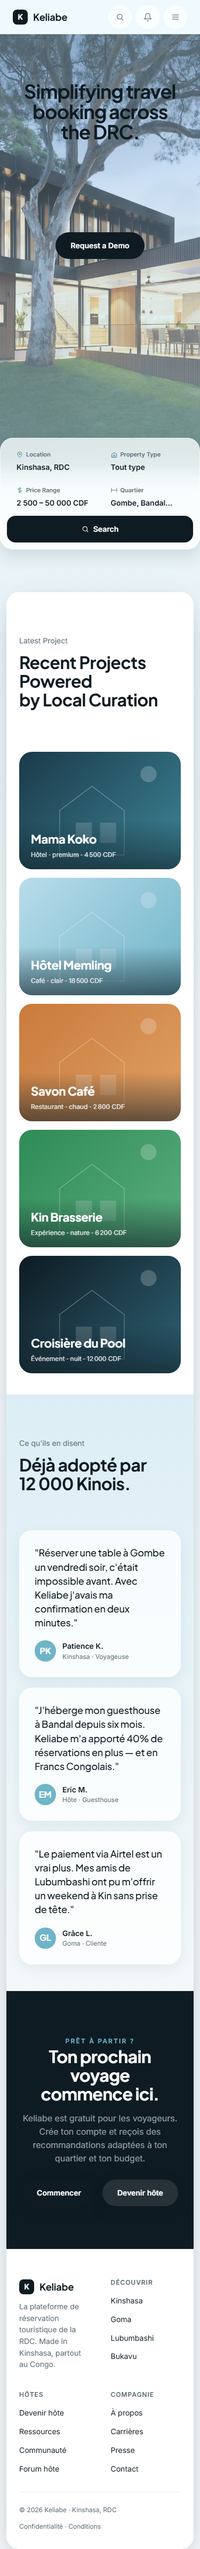
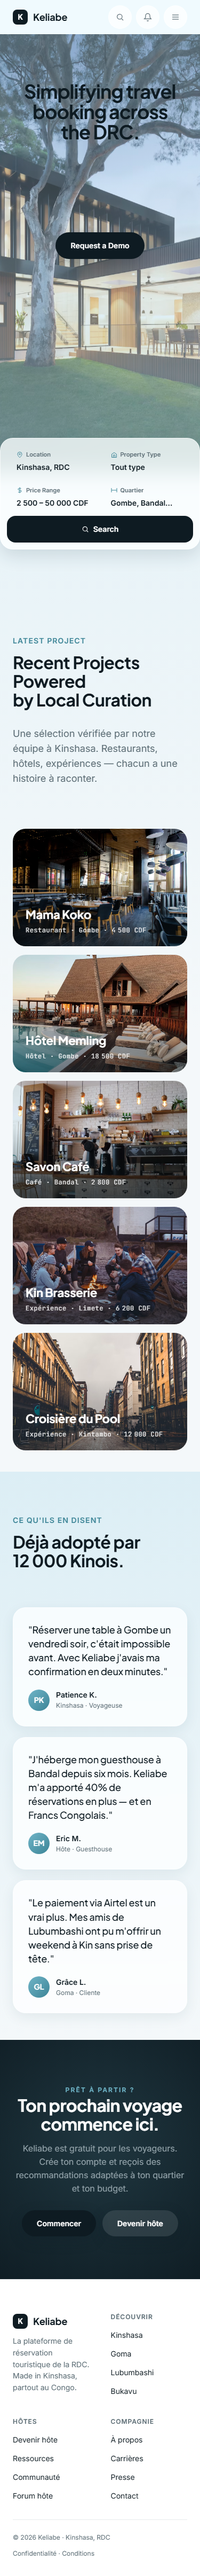
feat(landing): parties sous-hero en pleine largeur avec photos Unsplash - Suppression du frame arrondi .frame--body qui bridait le contenu - Sections .section, .testi, .cta, .footer : width 100% avec padding   horizontal, contenu interne limité à 1280px via .section__inner /   .testi__inner / .foote

diff --git a/styles/landing.css b/styles/landing.css
@@ -7,23 +7,8 @@ body {
   background: linear-gradient(180deg, var(--sky-soft) 0%, var(--paper) 40%);
 }
 
-/* ----- FRAME (uniquement pour la suite sous le hero) ----- */
-.frame--body {
-  margin: 24px auto 0;
-  max-width: 1240px;
-  border-radius: 32px;
-  background: var(--paper-elev);
-  box-shadow:
-    0 1px 0 rgba(255, 255, 255, 0.9) inset,
-    0 24px 80px -20px rgba(27, 58, 74, 0.25),
-    0 8px 24px -8px rgba(27, 58, 74, 0.15);
-  overflow: hidden;
-  position: relative;
-}
-@media (max-width: 720px) {
-  .frame--body { margin: 12px 12px 0; border-radius: 24px; }
-}
-
+/* ----- FRAME (supprimée — tout est pleine largeur maintenant) ----- */
+/* Conservée pour rétro-compat éventuelle — pas utilisée sur landing */
 /* ----- NAV (pleine largeur) ----- */
 .nav {
   position: sticky;
@@ -396,15 +381,29 @@ body {
   .search-glass__btn { grid-column: span 2; justify-content: center; margin-left: 0; }
 }
 
-/* ----- SECTION "LATEST PROJECT" ----- */
+/* ----- SECTION "LATEST PROJECT" (pleine largeur, contenu max 1280) ----- */
 .section {
   padding: 80px 24px;
-  max-width: 1200px;
+  width: 100%;
+}
+.section__inner {
+  max-width: 1280px;
   margin: 0 auto;
+}
+.section__head {
+  display: flex;
+  justify-content: space-between;
+  align-items: end;
+  gap: 32px;
+  flex-wrap: wrap;
+  margin-bottom: 40px;
 }
 .section__eyebrow {
   font-size: var(--t-sm);
-  color: var(--gris);
+  color: var(--ocean-deep);
+  font-weight: 600;
+  letter-spacing: 0.08em;
+  text-transform: uppercase;
   margin-bottom: 12px;
 }
 .section__title {
@@ -416,13 +415,19 @@ body {
   color: var(--ink);
   max-width: 22ch;
 }
+.section__intro {
+  max-width: 44ch;
+  color: var(--gris);
+  font-size: var(--t-md);
+}
 
-/* Grille Bento de cards */
+/* Grille Bento de cards (pleine largeur, gap serré) */
 .bento {
   display: grid;
   grid-template-columns: repeat(6, 1fr);
   gap: 16px;
-  margin-top: 40px;
+  max-width: 1280px;
+  margin: 0 auto;
 }
 .bento__card {
   position: relative;
@@ -439,16 +444,21 @@ body {
 .bento__card-media {
   position: absolute;
   inset: 0;
-  display: grid; place-items: center;
-  color: var(--paper-elev);
-  font-weight: 600;
+  background-size: cover;
+  background-position: center;
+}
+.bento__card-media::after {
+  content: "";
+  position: absolute;
+  inset: 0;
+  background: linear-gradient(180deg, rgba(14, 27, 34, 0) 40%, rgba(14, 27, 34, 0.55) 100%);
 }
 .bento__card-body {
   position: absolute;
   left: 0; right: 0; bottom: 0;
-  padding: 18px 22px;
+  padding: 20px 24px;
   color: var(--paper-elev);
-  background: linear-gradient(180deg, transparent 0%, rgba(14, 27, 34, 0.6) 100%);
+  z-index: 1;
 }
 .bento__card-title {
   font-family: var(--font-display);
@@ -458,8 +468,10 @@ body {
 }
 .bento__card-meta {
   font-size: var(--t-xs);
-  opacity: 0.85;
+  opacity: 0.9;
   margin-top: 4px;
+  font-family: var(--font-mono);
+  letter-spacing: 0.04em;
 }
 .bento__card:nth-child(1) { grid-column: span 4; min-height: 360px; }
 .bento__card:nth-child(2) { grid-column: span 2; }
@@ -477,20 +489,23 @@ body {
   .bento__card:nth-child(n) { grid-column: span 1; }
 }
 
-/* ----- TÉMOIGNAGES GLASS ----- */
+/* ----- TÉMOIGNAGES GLASS (pleine largeur) ----- */
 .testi {
   background: linear-gradient(180deg, var(--sky-soft) 0%, var(--paper) 100%);
   padding: 80px 24px;
+  width: 100%;
 }
 .testi__inner {
-  max-width: 1200px;
+  max-width: 1280px;
   margin: 0 auto;
+}
+.testi__head {
+  margin-bottom: 40px;
 }
 .testi__grid {
   display: grid;
   grid-template-columns: repeat(3, 1fr);
   gap: 20px;
-  margin-top: 40px;
 }
 @media (max-width: 960px) { .testi__grid { grid-template-columns: 1fr; } }
 
@@ -519,23 +534,39 @@ body {
 .glass-card__avatar {
   width: 40px; height: 40px;
   border-radius: 50%;
-  background: var(--ocean);
+  background: linear-gradient(135deg, var(--ocean), var(--ocean-deep));
   color: var(--paper-elev);
   display: grid; place-items: center;
   font-family: var(--font-display);
   font-weight: 700;
+  font-size: var(--t-sm);
 }
 .glass-card__name { font-weight: 600; font-size: var(--t-sm); color: var(--ink); }
 .glass-card__role { font-size: var(--t-xs); color: var(--gris); }
 
-/* ----- CTA + FOOTER ----- */
+/* ----- CTA + FOOTER (pleine largeur) ----- */
 .cta {
   padding: 80px 24px;
   background: var(--ink);
   color: var(--paper-elev);
   text-align: center;
+  width: 100%;
+  position: relative;
+  overflow: hidden;
 }
-.cta__inner { max-width: 800px; margin: 0 auto; }
+.cta::before {
+  content: "";
+  position: absolute;
+  top: -200px;
+  left: 50%;
+  width: 800px;
+  height: 800px;
+  border-radius: 50%;
+  background: radial-gradient(circle, rgba(111, 180, 199, 0.18), transparent 60%);
+  transform: translateX(-50%);
+  pointer-events: none;
+}
+.cta__inner { max-width: 800px; margin: 0 auto; position: relative; z-index: 1; }
 .cta h2 {
   font-family: var(--font-display);
   font-size: clamp(2rem, 4vw, 3rem);
@@ -551,10 +582,11 @@ body {
 .footer {
   background: var(--paper-elev);
   border-top: 1px solid var(--line);
-  padding: 56px 24px 32px;
+  padding: 64px 24px 32px;
+  width: 100%;
 }
 .footer__inner {
-  max-width: 1200px;
+  max-width: 1280px;
   margin: 0 auto;
   display: grid;
   grid-template-columns: 1.4fr repeat(3, 1fr);
@@ -577,7 +609,7 @@ body {
 .footer__col a { font-size: var(--t-sm); color: var(--ink); transition: color var(--d-base) var(--ease-out); }
 .footer__col a:hover { color: var(--ocean-deep); }
 .footer__bottom {
-  max-width: 1200px;
+  max-width: 1280px;
   margin: 32px auto 0;
   padding-top: 24px;
   border-top: 1px solid var(--line);

diff --git a/pages/index.html b/pages/index.html
@@ -157,16 +157,22 @@
   </form>
 
   <!-- ============================================================
-       SUITE (frame arrondi)
+       SUITE (pleine largeur, plus de frame arrondi)
        ============================================================ -->
-  <div class="frame frame--body">
 
 <!-- ============================================================
-     SECTION PROJETS RÉCENTS (Bento glass cards)
+     SECTION PROJETS RÉCENTS (Bento avec photos Unsplash)
      ============================================================ -->
 <section class="section">
-  <div class="section__eyebrow">Latest Project</div>
-  <h2 class="section__title">Recent Projects Powered<br/>by Local Curation</h2>
+  <div class="section__inner">
+    <div class="section__head">
+      <div>
+        <div class="section__eyebrow">Latest Project</div>
+        <h2 class="section__title">Recent Projects Powered<br/>by Local Curation</h2>
+      </div>
+      <p class="section__intro">Une sélection vérifiée par notre équipe à Kinshasa. Restaurants, hôtels, expériences — chacun a une histoire à raconter.</p>
+    </div>
+  </div>
   <div class="bento" id="bento"></div>
 </section>
 
@@ -175,8 +181,10 @@
      ============================================================ -->
 <section class="testi">
   <div class="testi__inner">
-    <div class="section__eyebrow">Ce qu'ils en disent</div>
-    <h2 class="section__title">Déjà adopté par<br/>12 000 Kinois.</h2>
+    <div class="testi__head">
+      <div class="section__eyebrow">Ce qu'ils en disent</div>
+      <h2 class="section__title">Déjà adopté par<br/>12 000 Kinois.</h2>
+    </div>
     <div class="testi__grid" id="testi-grid"></div>
   </div>
 </section>
@@ -242,8 +250,6 @@
   </div>
 </footer>
 
-</div><!-- /.frame.frame--body -->
-
 <!-- ============================================================
      DATA
      ============================================================ -->
@@ -257,33 +263,33 @@
   const D = window.KE_DATA;
   if (!D) return;
 
-  // Bento
+  // Bento — vraies photos Unsplash, pas de SVG
   const bentoEl = document.getElementById("bento");
   if (bentoEl) {
     const items = D.phares.slice(0, 5).map((p, i) => {
-      // Chaque carte a un ton très distinct pour casser la monotonie bleu/bleu
-      const tones = [
-        { g: ["#1B3A4A", "#3D8597"], label: "Hôtel · premium" },          // sombre sarcelle
-        { g: ["#B8DCEB", "#6FB4C7"], label: "Café · clair" },               // ciel clair
-        { g: ["#C97B3C", "#E0A064"], label: "Restaurant · chaud" },         // ocre (accent chaud)
-        { g: ["#2E8B57", "#5BAE7E"], label: "Expérience · nature" },        // vert sève
-        { g: ["#0E1B22", "#2E6275"], label: "Événement · nuit" }            // nuit profonde
-      ];
-      const { g, label } = tones[i] || tones[0];
-      const [g1, g2] = g;
+      const photos = {
+        "mama-koko":     "https://images.unsplash.com/photo-1517248135467-4c7edcad34c4?w=1200&q=80&auto=format&fit=crop",
+        "memling":       "https://images.unsplash.com/photo-1566073771259-6a8506099945?w=1200&q=80&auto=format&fit=crop",
+        "savon":         "https://images.unsplash.com/photo-1453614512568-c4024d13c247?w=1200&q=80&auto=format&fit=crop",
+        "kin-brasserie": "https://images.unsplash.com/photo-1530541930197-ff16ac917b0e?w=1200&q=80&auto=format&fit=crop",
+        "pool-cruise":   "https://images.unsplash.com/photo-1543872084-c7bd3822856f?w=1200&q=80&auto=format&fit=crop",
+        "marche-central":"https://images.unsplash.com/photo-1555529669-e69e7aa0ba9a?w=1200&q=80&auto=format&fit=crop"
+      };
+      const photo = photos[p.id] || photos["mama-koko"];
+      const labels = {
+        "mama-koko":     "Restaurant · Gombe",
+        "memling":       "Hôtel · Gombe",
+        "savon":         "Café · Bandal",
+        "kin-brasserie": "Expérience · Limete",
+        "pool-cruise":   "Expérience · Kintambo",
+        "marche-central":"Événement · Lingwala"
+      };
       return `
         <a href="listing.html?id=${p.id}" class="bento__card">
-          <div class="bento__card-media" style="background: linear-gradient(135deg, ${g1}, ${g2});">
-            <svg viewBox="0 0 400 300" width="100%" height="100%" preserveAspectRatio="xMidYMid slice" style="opacity:0.35;">
-              <polygon points="100,150 180,90 260,150 260,260 100,260" fill="none" stroke="white" stroke-width="1.5"/>
-              <rect x="140" y="180" width="40" height="50" fill="white" opacity="0.5"/>
-              <rect x="200" y="180" width="40" height="50" fill="white" opacity="0.5"/>
-              <circle cx="320" cy="60" r="20" fill="white" opacity="0.6"/>
-            </svg>
-          </div>
+          <div class="bento__card-media" style="background-image: url('${photo}');"></div>
           <div class="bento__card-body">
             <div class="bento__card-title">${p.title}</div>
-            <div class="bento__card-meta">${label}${p.price ? " · " + p.price.toLocaleString("fr-FR") + " CDF" : ""}</div>
+            <div class="bento__card-meta">${labels[p.id] || p.meta}${p.price ? " · " + p.price.toLocaleString("fr-FR") + " CDF" : ""}</div>
           </div>
         </a>
       `;
